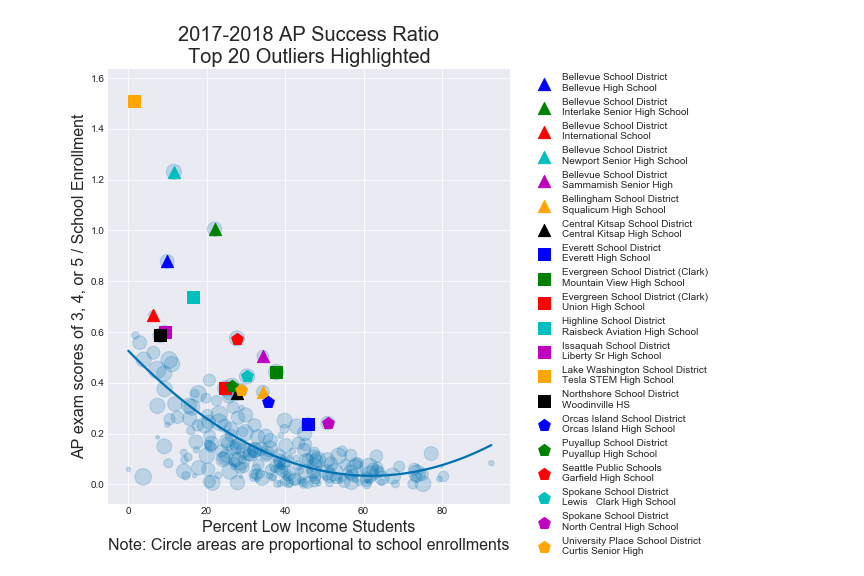
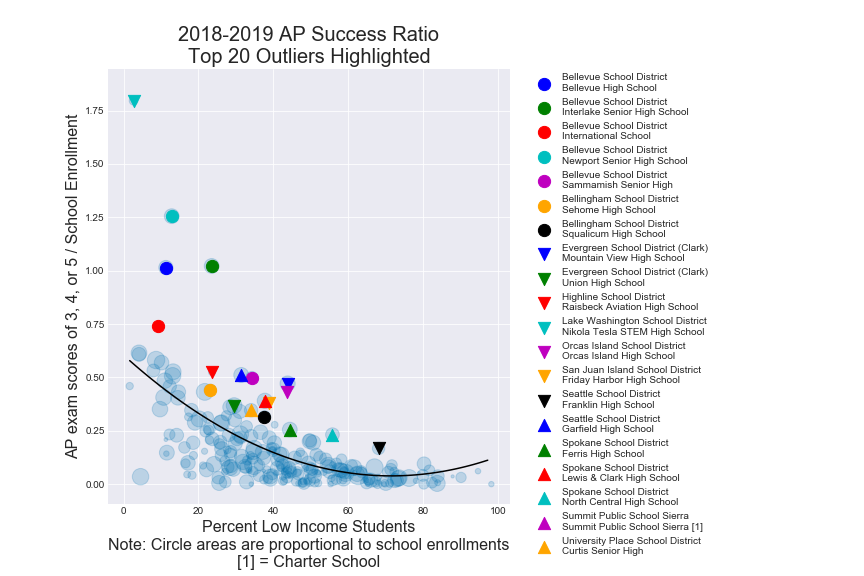
Updated the Dual Credit Outliers report with the 2019 AP exam results

diff --git a/report_dual_credit_outliers.md b/report_dual_credit_outliers.md
@@ -14,7 +14,7 @@ permalink:
 - International Baccalaureate
 - Running Start
 
-## 2017-2018 Dual Credit Earned
+## 2018-2019 Dual Credit Earned
 - Advanced Placement Exam Scores
 
 ___
@@ -69,7 +69,7 @@ Running Start
 
 ___
 
-## 2017-2018 Dual Credit Earned - Advanced Placement Exam Scores
+## 2018-2019 Dual Credit Earned - Advanced Placement Exam Scores
 
 Note:
 - School Enrollment equals the total number of students in a school. Used to normalize the total number of AP exams scored a 3, 4, or 5.
